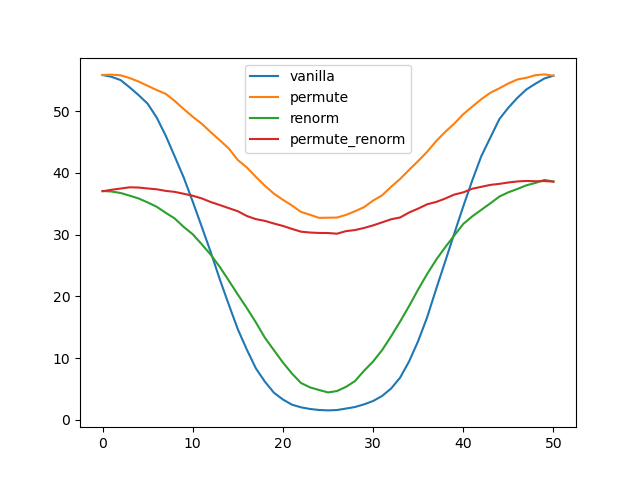
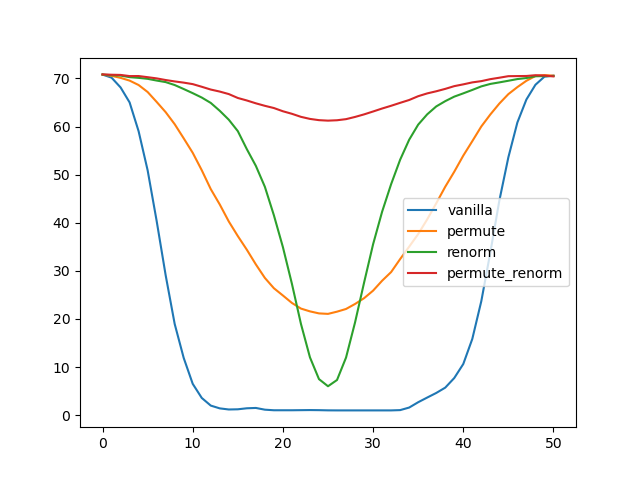
fix error

diff --git a/interpolation_test.py b/interpolation_test.py
@@ -176,7 +176,10 @@ class ResNet(nn.Module):
 
 
 def resnet20(w=1):
-    return ResNet(BasicBlock, [3, 3, 3], w=w, num_classes=100)
+    # return ResNet(BasicBlock, [3, 3, 3], w=w, num_classes=100)
+    model = torchvision.models.resnet18(pretrained=False)
+    model.conv1 = nn.Conv2d(3, 64, kernel_size=3, stride=1, padding=1, bias=False)
+    return model.cuda()
 
 
 def train(save_key, train_dataloader):
@@ -218,8 +221,8 @@ def train(save_key, train_dataloader):
     save_model(model, save_key)
 
 
-# train('resnet20x4_v1', train_dataloder_part1)
-train('resnet20x4_v2', train_dataloder_part2)
+train('resnet20x4_v1', train_aug_loader)
+train('resnet20x4_v2', train_aug_loader)
 
 # given two networks net0, net1 which each output a feature map of shape NxCxWxH
 # this will reshape both outputs to (N*W*H)xC
@@ -350,112 +353,199 @@ load_model(model1, 'resnet20x4_v2')
 evaluate(model0), evaluate(model1)
 
 
-class Subnet(nn.Module):
-    def __init__(self, model):
-        super().__init__()
-        self.model = model
+# class Subnet(nn.Module):
+#     def __init__(self, model):
+#         super().__init__()
+#         self.model = model
 
-    def forward(self, x):
-        self = self.model
-        x = F.relu(self.bn1(self.conv1(x)))
-        x = self.layer1(x)
-        return x
-
-
-# corr = run_corr_matrix(Subnet(model0), Subnet(model1))
-# perm_map1 = get_layer_perm1(corr)
-perm_map = get_layer_perm(Subnet(model0), Subnet(model1))
-permute_output(perm_map, model1.conv1, model1.bn1)
-permute_output(perm_map, model1.layer1[0].conv2, model1.layer1[0].bn2)
-permute_output(perm_map, model1.layer1[1].conv2, model1.layer1[1].bn2)
-permute_output(perm_map, model1.layer1[2].conv2, model1.layer1[2].bn2)
-permute_input(perm_map, [model1.layer1[0].conv1, model1.layer1[1].conv1, model1.layer1[2].conv1])
-permute_input(perm_map, [model1.layer2[0].conv1, model1.layer2[0].shortcut[0]])
+#     def forward(self, x):
+#         self = self.model
+#         x = F.relu(self.bn1(self.conv1(x)))
+#         x = self.layer1(x)
+#         return x
 
 
-class Subnet(nn.Module):
-    def __init__(self, model):
-        super().__init__()
-        self.model = model
-
-    def forward(self, x):
-        self = self.model
-        x = F.relu(self.bn1(self.conv1(x)))
-        x = self.layer1(x)
-        x = self.layer2(x)
-        return x
+# # corr = run_corr_matrix(Subnet(model0), Subnet(model1))
+# # perm_map1 = get_layer_perm1(corr)
+# perm_map = get_layer_perm(Subnet(model0), Subnet(model1))
+# permute_output(perm_map, model1.conv1, model1.bn1)
+# permute_output(perm_map, model1.layer1[0].conv2, model1.layer1[0].bn2)
+# permute_output(perm_map, model1.layer1[1].conv2, model1.layer1[1].bn2)
+# permute_output(perm_map, model1.layer1[2].conv2, model1.layer1[2].bn2)
+# permute_input(perm_map, [model1.layer1[0].conv1, model1.layer1[1].conv1, model1.layer1[2].conv1])
+# permute_input(perm_map, [model1.layer2[0].conv1, model1.layer2[0].shortcut[0]])
 
 
-perm_map = get_layer_perm(Subnet(model0), Subnet(model1))
-permute_output(perm_map, model1.layer2[0].conv2, model1.layer2[0].bn2)
-permute_output(perm_map, model1.layer2[0].shortcut[0], model1.layer2[0].shortcut[1])
-permute_output(perm_map, model1.layer2[1].conv2, model1.layer2[1].bn2)
-permute_output(perm_map, model1.layer2[2].conv2, model1.layer2[2].bn2)
+# class Subnet(nn.Module):
+#     def __init__(self, model):
+#         super().__init__()
+#         self.model = model
 
-permute_input(perm_map, [model1.layer2[1].conv1, model1.layer2[2].conv1])
-permute_input(perm_map, [model1.layer3[0].conv1, model1.layer3[0].shortcut[0]])
-
-
-class Subnet(nn.Module):
-    def __init__(self, model):
-        super().__init__()
-        self.model = model
-
-    def forward(self, x):
-        self = self.model
-        x = F.relu(self.bn1(self.conv1(x)))
-        x = self.layer1(x)
-        x = self.layer2(x)
-        x = self.layer3(x)
-        return x
+#     def forward(self, x):
+#         self = self.model
+#         x = F.relu(self.bn1(self.conv1(x)))
+#         x = self.layer1(x)
+#         x = self.layer2(x)
+#         return x
 
 
-perm_map = get_layer_perm(Subnet(model0), Subnet(model1))
-permute_output(perm_map, model1.layer3[0].conv2, model1.layer3[0].bn2)
-permute_output(perm_map, model1.layer3[0].shortcut[0], model1.layer3[0].shortcut[1])
-permute_output(perm_map, model1.layer3[1].conv2, model1.layer3[1].bn2)
-permute_output(perm_map, model1.layer3[2].conv2, model1.layer3[2].bn2)
+# perm_map = get_layer_perm(Subnet(model0), Subnet(model1))
+# permute_output(perm_map, model1.layer2[0].conv2, model1.layer2[0].bn2)
+# permute_output(perm_map, model1.layer2[0].shortcut[0], model1.layer2[0].shortcut[1])
+# permute_output(perm_map, model1.layer2[1].conv2, model1.layer2[1].bn2)
+# permute_output(perm_map, model1.layer2[2].conv2, model1.layer2[2].bn2)
 
-permute_input(perm_map, [model1.layer3[1].conv1, model1.layer3[2].conv1])
-model1.linear.weight.data = model1.linear.weight[:, perm_map]
-
-
-class Subnet(nn.Module):
-    def __init__(self, model, nb=9):
-        super().__init__()
-        self.model = model
-        self.blocks = []
-        self.blocks += list(model.layer1)
-        self.blocks += list(model.layer2)
-        self.blocks += list(model.layer3)
-        self.blocks = nn.Sequential(*self.blocks)
-        self.bn1 = model.bn1
-        self.conv1 = model.conv1
-        self.linear = model.linear
-        self.nb = nb
-
-    def forward(self, x):
-        x = F.relu(self.bn1(self.conv1(x)))
-        x = self.blocks[:self.nb](x)
-        block = self.blocks[self.nb]
-        x = block.conv1(x)
-        x = block.bn1(x)
-        x = F.relu(x)
-        return x
+# permute_input(perm_map, [model1.layer2[1].conv1, model1.layer2[2].conv1])
+# permute_input(perm_map, [model1.layer3[0].conv1, model1.layer3[0].shortcut[0]])
 
 
-blocks1 = []
-blocks1 += list(model1.layer1)
-blocks1 += list(model1.layer2)
-blocks1 += list(model1.layer3)
-blocks1 = nn.Sequential(*blocks1)
+# class Subnet(nn.Module):
+#     def __init__(self, model):
+#         super().__init__()
+#         self.model = model
 
-for nb in range(9):
-    perm_map = get_layer_perm(Subnet(model0, nb=nb), Subnet(model1, nb=nb))
-    block = blocks1[nb]
-    permute_output(perm_map, block.conv1, block.bn1)
-    permute_input(perm_map, [block.conv2])
+#     def forward(self, x):
+#         self = self.model
+#         x = F.relu(self.bn1(self.conv1(x)))
+#         x = self.layer1(x)
+#         x = self.layer2(x)
+#         x = self.layer3(x)
+#         return x
 
+
+# perm_map = get_layer_perm(Subnet(model0), Subnet(model1))
+# permute_output(perm_map, model1.layer3[0].conv2, model1.layer3[0].bn2)
+# permute_output(perm_map, model1.layer3[0].shortcut[0], model1.layer3[0].shortcut[1])
+# permute_output(perm_map, model1.layer3[1].conv2, model1.layer3[1].bn2)
+# permute_output(perm_map, model1.layer3[2].conv2, model1.layer3[2].bn2)
+
+# permute_input(perm_map, [model1.layer3[1].conv1, model1.layer3[2].conv1])
+# model1.linear.weight.data = model1.linear.weight[:, perm_map]
+
+
+# class Subnet(nn.Module):
+#     def __init__(self, model, nb=9):
+#         super().__init__()
+#         self.model = model
+#         self.blocks = []
+#         self.blocks += list(model.layer1)
+#         self.blocks += list(model.layer2)
+#         self.blocks += list(model.layer3)
+#         self.blocks = nn.Sequential(*self.blocks)
+#         self.bn1 = model.bn1
+#         self.conv1 = model.conv1
+#         self.linear = model.linear
+#         self.nb = nb
+
+#     def forward(self, x):
+#         x = F.relu(self.bn1(self.conv1(x)))
+#         x = self.blocks[:self.nb](x)
+#         block = self.blocks[self.nb]
+#         x = block.conv1(x)
+#         x = block.bn1(x)
+#         x = F.relu(x)
+#         return x
+
+
+# blocks1 = []
+# blocks1 += list(model1.layer1)
+# blocks1 += list(model1.layer2)
+# blocks1 += list(model1.layer3)
+# blocks1 = nn.Sequential(*blocks1)
+
+# for nb in range(9):
+#     perm_map = get_layer_perm(Subnet(model0, nb=nb), Subnet(model1, nb=nb))
+#     block = blocks1[nb]
+#     permute_output(perm_map, block.conv1, block.bn1)
+#     permute_input(perm_map, [block.conv2])
+
+# save_model(model1, 'resnet20x4_v2_perm1')
+
+def get_blocks(net):
+    return nn.Sequential(nn.Sequential(net.conv1, net.bn1, net.relu, net.maxpool),
+                         *net.layer1, *net.layer2, *net.layer3, *net.layer4)
+
+
+def add_junctures(net):
+    net1 = resnet20()
+    net1.load_state_dict(net.state_dict())
+    blocks = get_blocks(net1)[1:]
+    for block in blocks:
+        if block.downsample is not None:
+            continue
+        planes = len(block.bn2.weight)
+        shortcut = nn.Conv2d(planes, planes, kernel_size=1, stride=1, padding=0, bias=False)
+        shortcut.weight.data[:, :, 0, 0] = torch.eye(planes)
+        block.downsample = shortcut
+    return net1.cuda().eval()
+
+
+model0 = add_junctures(model0)
+model1 = add_junctures(model1)
+# save_model(model0, 'resnet18j_v1')
+# save_model(model1, 'resnet18j_v2')
+
+blocks0 = get_blocks(model0)
+blocks1 = get_blocks(model1)
+evaluate(model0), evaluate(model1)
+
+for k in range(1, len(blocks1)):
+    block0 = blocks0[k]
+    block1 = blocks1[k]
+    subnet0 = nn.Sequential(blocks0[:k], block0.conv1, block0.bn1, block0.relu)
+    subnet1 = nn.Sequential(blocks1[:k], block1.conv1, block1.bn1, block1.relu)
+    perm_map = get_layer_perm(subnet0, subnet1)
+    permute_output(perm_map, block1.conv1, block1.bn1)
+    permute_input(perm_map, block1.conv2)
+
+
+def get_permk(k):
+    if k == 0:
+        return 0
+    elif k > 0 and k <= 2:
+        return 2
+    elif k > 2 and k <= 4:
+        return 4
+    elif k > 4 and k <= 6:
+        return 6
+    elif k > 6 and k <= 8:
+        return 8
+    else:
+        raise Exception()
+
+
+last_kk = None
+perm_map = None
+
+for k in range(len(blocks1)):
+    kk = get_permk(k)
+    if kk != last_kk:
+        perm_map = get_layer_perm(blocks0[:kk+1], blocks1[:kk+1])
+        last_kk = kk
+#     perm_map = get_layer_perm(blocks0[:k+1], blocks1[:k+1])
+
+    if k > 0:
+        permute_output(perm_map, blocks1[k].conv2, blocks1[k].bn2)
+        shortcut = blocks1[k].downsample
+        if isinstance(shortcut, nn.Conv2d):
+            permute_output(perm_map, shortcut)
+        else:
+            permute_output(perm_map, shortcut[0], shortcut[1])
+    else:
+        permute_output(perm_map, model1.conv1, model1.bn1)
+
+    if k+1 < len(blocks1):
+        permute_input(perm_map, blocks1[k+1].conv1)
+        shortcut = blocks1[k+1].downsample
+        if isinstance(shortcut, nn.Conv2d):
+            permute_input(perm_map, shortcut)
+        else:
+            permute_input(perm_map, shortcut[0])
+    else:
+        model1.fc.weight.data = model1.fc.weight[:, perm_map]
+
+
+print('evaluate(model1) = ', evaluate(model1))
 save_model(model1, 'resnet20x4_v2_perm1')
 
 

diff --git a/interpolation_imagenet_test.py b/interpolation_imagenet_test.py
@@ -112,6 +112,7 @@ def full_eval(model):
 
 def resnet18():
     model = torchvision.models.resnet18(pretrained=False)
+    model.conv1 = nn.Conv2d(3, 64, kernel_size=3, stride=1, padding=1, bias=False)
     return model.cuda().eval()
 
 
@@ -211,6 +212,7 @@ def permute_input(perm_map, conv):
 
 def train(save_key, train_dataloader):
     model = resnet18()
+    model.train()
     if save_key == 'resnet20x4_v2':  # continue training
         load_model(model, 'resnet20x4_v1')
     optimizer = SGD(model.parameters(), lr=0.4, momentum=0.9, weight_decay=5e-4)
@@ -248,8 +250,8 @@ def train(save_key, train_dataloader):
     save_model(model, save_key)
 
 
-# train('resnet18_v1', train_aug_loader)  # train_dataloder_part1
-# train('resnet18_v2', train_aug_loader)  # train_dataloder_part2
+train('resnet18_v1', train_aug_loader)  # train_dataloder_part1
+train('resnet18_v2', train_aug_loader)  # train_dataloder_part2
 
 # sd = torch.load('/persist/kjordan/notebooks/permutations/imagenet/0045eef3.pt')
 # model.load_state_dict(sd)
@@ -340,22 +342,20 @@ def mix_weights(model, alpha, key0, key1):
                 for k in sd0.keys()}
     model.load_state_dict(sd_alpha)
 
+
 # use the train loader with data augmentation as this gives better results
-
-
 def reset_bn_stats(model, epochs=1, loader=train_aug_loader):
     # resetting stats to baseline first as below is necessary for stability
     for m in model.modules():
         if type(m) == nn.BatchNorm2d:
-            m.momentum = None
+            m.momentum = None  # use simple average
             m.reset_running_stats()
     # run a single train epoch with augmentations to recalc stats
     model.train()
     for _ in range(epochs):
         with torch.no_grad(), autocast():
             for images, _ in loader:
-                images = images.cuda()
-                output = model(images)
+                output = model(images.cuda())
 
 
 model_a = add_junctures(resnet18())
